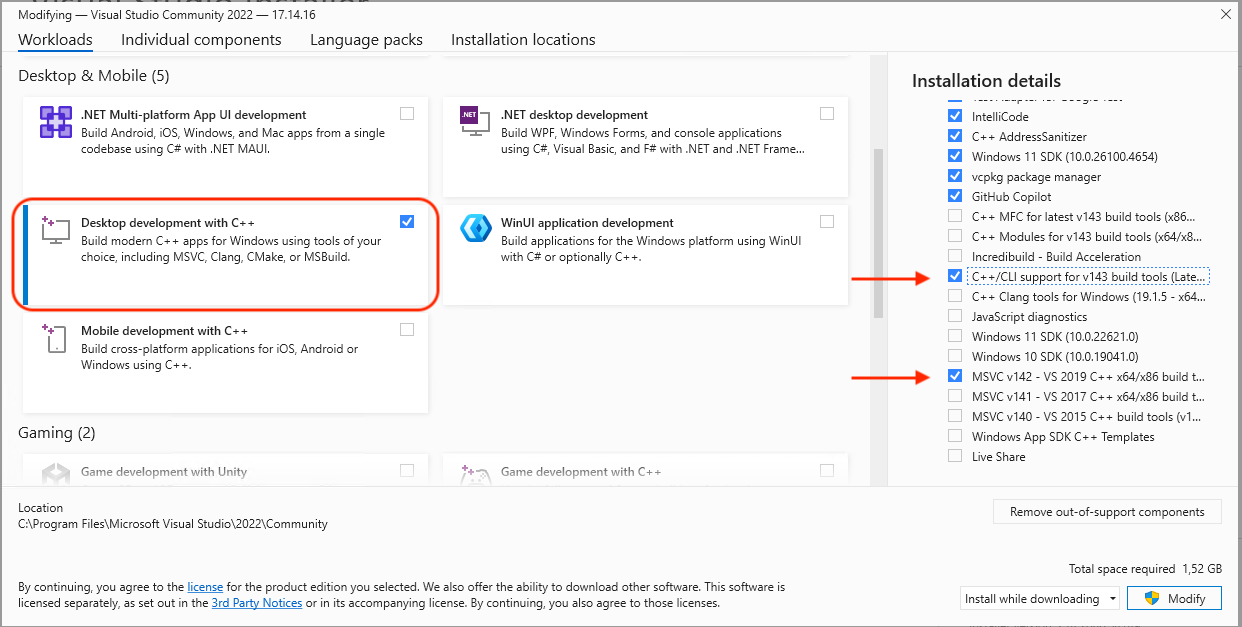
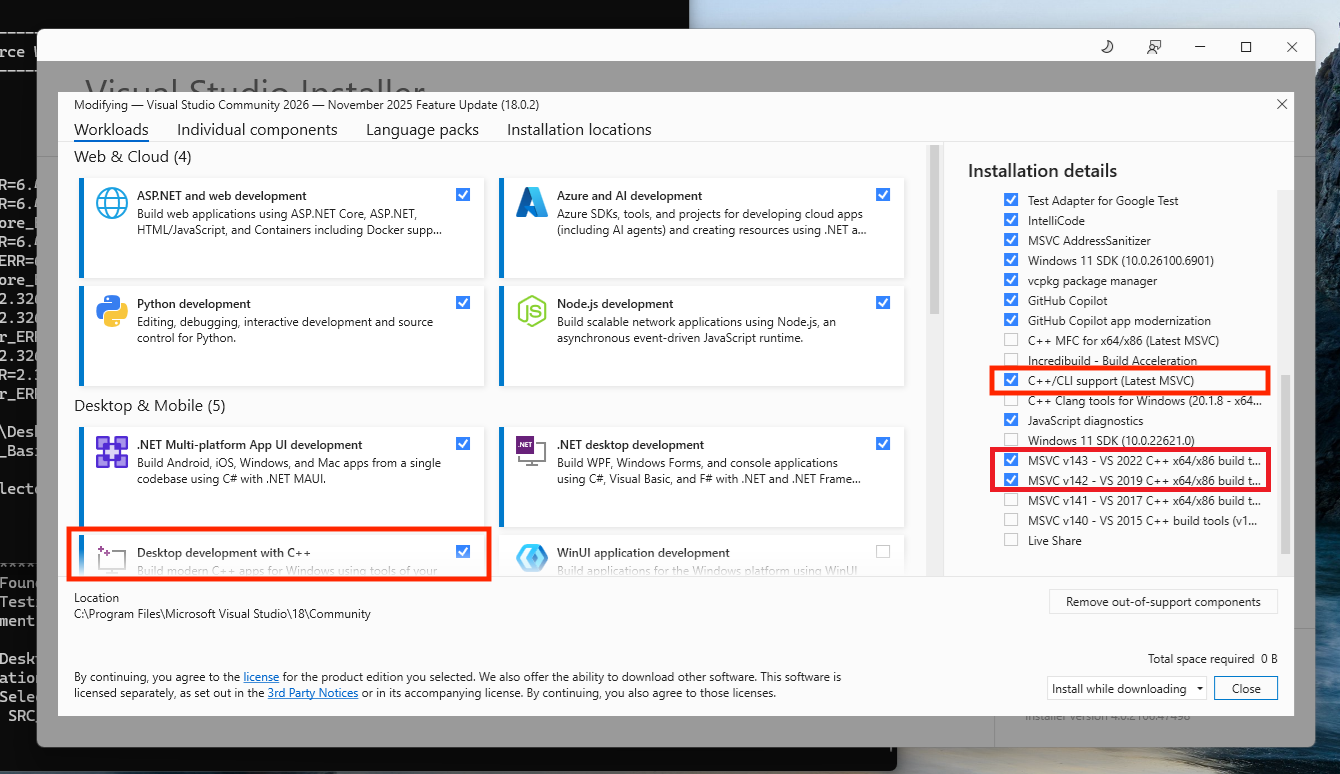
Update install-docs via https://github.com/mccode-dev/McCode/issues/2245, thanks @LelandWH

diff --git a/INSTALL-McXtrace/Windows/README.md b/INSTALL-McXtrace/Windows/README.md
@@ -5,7 +5,7 @@
   1. **Recommended:**
     * Install [Visual Studio including c/c++ support](https://learn.microsoft.com/en-us/cpp/build/building-on-the-command-line?view=msvc-170#download-and-install-the-tools). Any
       recent version of Visual Studio itself should work. Use the
-      "Visual Studio Installer" and [modify settings](install-screenshot1.png) to selecect at minumum "Desktop development with c++" specifying to [include VS2019 build tools and CLI support](install-screenshot2.png). (It is OK to include build tools such as VS2022 or VS2026, but VS2019 **must** be present also. 
+      "Visual Studio Installer" and [modify settings (click for screenshot)](install-screenshot1.png) to selecect at minumum "Desktop development with c++" specifying to [include all of: MSVC v142 (2019), MSVC v143 (2022) plus CLI support (click for screenshot)](install-screenshot2.png). (It should be OK to include later build tools such as VS2026, but VS2019 and VS2022 **must** be present also. 
     * Use the [mcxtrace-conda](mcxtrace-conda.bat) batch script to install the latest mcxtrace from `conda-forge` 
     * Once install has completed, please use the `mcxtrace-shell` shortcut on the desktop - issue terminal command `mxgui` to start the McXtrace GUI. 
     * Option 1 *may* function `arm64` Windows, but will require installation of Visual Studio including both arm64 and x64_64 build tools for c++.

diff --git a/INSTALL-McStas/Windows/README.md b/INSTALL-McStas/Windows/README.md
@@ -5,7 +5,7 @@
   1. **Recommended:**
     * Install [Visual Studio including c/c++ support](https://learn.microsoft.com/en-us/cpp/build/building-on-the-command-line?view=msvc-170#download-and-install-the-tools). Any
       recent version of Visual Studio itself should work. Use the
-      "Visual Studio Installer" and [modify settings](install-screenshot1.png) to selecect at minumum "Desktop development with c++" specifying to [include VS2019 build tools and CLI support](install-screenshot2.png). (It is OK to include build tools such as VS2022 or VS2026, but VS2019 **must** be present also. 
+      "Visual Studio Installer" and [modify settings (click for screenshot)](install-screenshot1.png) to selecect at minumum "Desktop development with c++" specifying to [include all of: MSVC v142 (2019), MSVC v143 (2022) plus CLI support (click for screenshot)](install-screenshot2.png). (It should be OK to include later build tools such as VS2026, but VS2019 and VS2022 **must** be present also. 
     * Use the [mcstas-conda](mcstas-conda.bat) batch script to install the latest mcstas from `conda-forge` 
     * Once install has completed, please use the `mcstas-shell` shortcut on the desktop - issue terminal command `mcgui` to start the McStas GUI. 
     * Option 1 *may* function `arm64` Windows, but will require installation of Visual Studio including both arm64 and x64_64 build tools for c++.
